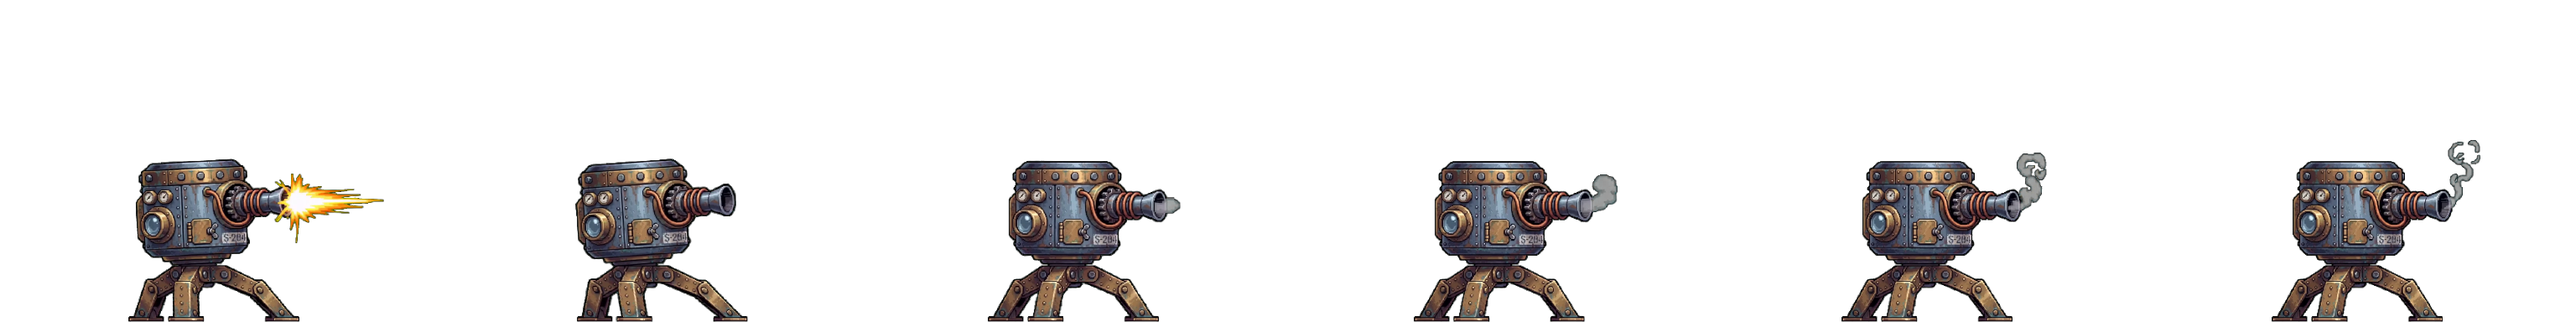
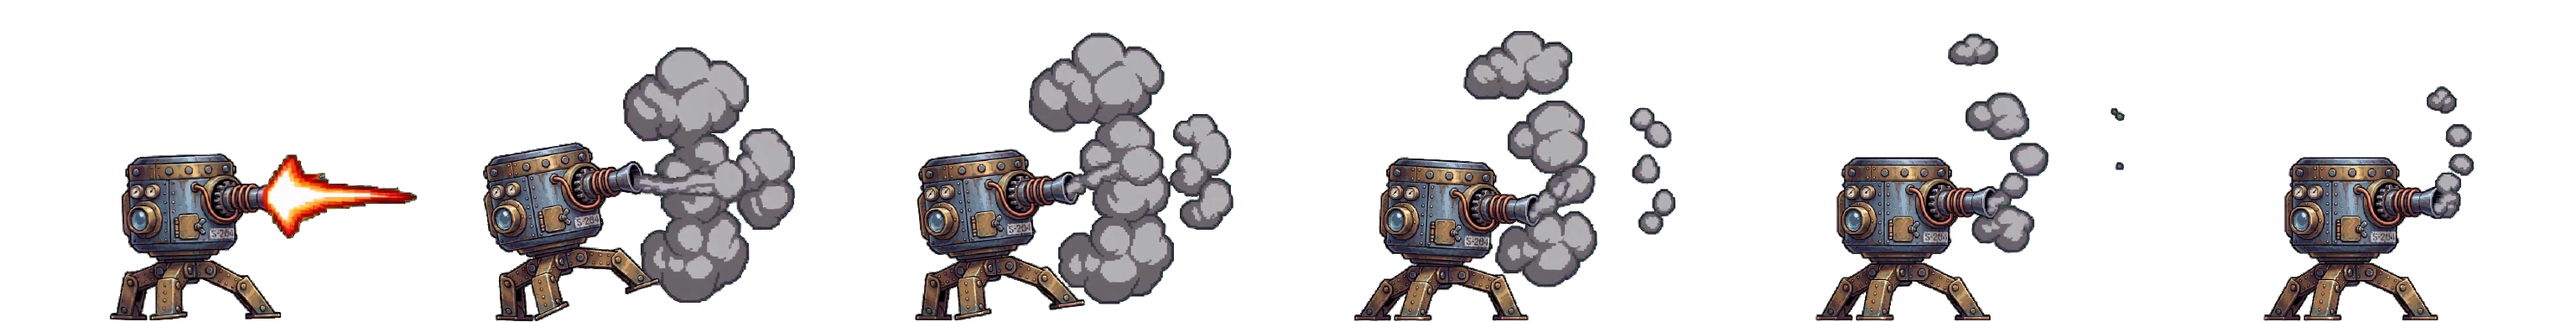
3.10: the sentry fires properly, and the waiver it needed is gone
Owner reopened the ruling. $1.19, one take, adopted. Running total $52.67 of $55.

-r5 had already refuted the padding lever, so DISCHARGE_MARGIN was the only thing
left and -r6 changed it and nothing else. The flash now reaches about TWICE the
barrel instead of no further than it, and may leave the right edge; the MACHINE is
still held off every edge. Per STYLE.md's "a named element beats a negation" the
flash was given a size rather than permission - deleting the containment would
have left it unspecified, which is how it came back small the first time.

Measured: the discharge is visible in 5 of 6 frames, up from 1. fire plays over an
18-tick window, so a one-frame flash is a flicker and a five-frame one is a shot.

And it satisfies BOTH rulings, which is the outcome worth having. -r6 passes G6
outright, so the ACCEPTED_EDGE_BLEED entry was DELETED. Asking for a bigger flash
by geometry produced one that still fits the frame, where asking for a small one
produced a machine that barely fired. No threshold moved, no waiver carried,
effect visible. edge-exceptions.test.ts now asserts the waiver's ABSENCE, so
re-adding one is a conversation rather than a commit.

The fix caused a regression and the rule caught it. Repacking at the inherited
scale drew the turret 23.4% small - tripod 157px against idle's 205 - which is the
exact defect the user reported twice. The cause IS the fix: a bigger flash
[…]

diff --git a/tests/unit/motion-framing.test.ts b/tests/unit/motion-framing.test.ts
@@ -162,12 +162,29 @@ describe('both brass-sentry/fire records bound the discharge, not just the subje
   });
 
   it.each(FIRE_KEYS)('%s measures the flash against the barrel', (key) => {
-    expect(renderedPrompt(key)).toContain('no further from the muzzle than the length of the barrel');
+    // 🔴 Re-taken 2026-08-23 (inventory 3.10). The clause was reversed on the owner's ruling: it
+    // asked for a flash reaching *no further than* the barrel and got a machine that barely fired.
+    // It now asks for one reaching about TWICE the barrel.
+    //
+    // **The property this test exists for is unchanged and is why it survives the reversal**: the
+    // flash is measured against the BARREL — the one part of the machine whose length the identity
+    // clause already commits to — rather than against the frame, which the model cannot see, or
+    // against nothing, which is how it came back small in the first place.
+    expect(renderedPrompt(key)).toContain('the length of the barrel itself');
   });
 
-  it.each(FIRE_KEYS)('%s requires margin on all four edges, not just left and right', (key) => {
-    // FRAME_MARGIN speaks only about frame WIDTH. `fire` was cut on the top and bottom too.
-    expect(renderedPrompt(key)).toContain('margin stays visible on all four edges');
+  it.each(FIRE_KEYS)('%s keeps the MACHINE off every edge, whatever the flash does', (key) => {
+    // 🔴 Re-taken 2026-08-23 (inventory 3.10). This asserted 'margin stays visible on all four
+    // edges', which bound the flash as well as the machine — and binding the flash is what made the
+    // sentry barely fire.
+    //
+    // `FRAME_MARGIN` speaks only about frame WIDTH, and `fire` was cut top and bottom too, so the
+    // requirement is real. What changed is its SUBJECT: the machine is still held off every edge;
+    // the discharge is explicitly allowed to leave the right one. `-r6` passes G6 anyway, so no
+    // waiver is carried — see `edge-exceptions.test.ts`.
+    const prompt = renderedPrompt(key);
+    expect(prompt).toContain('The MACHINE ITSELF never touches any edge');
+    expect(prompt).toContain('above, below and to the left of the turret');
   });
 
   it('keeps the elevated record identical in angle, which is its stated invariant', () => {

diff --git a/tests/unit/edge-exceptions.test.ts b/tests/unit/edge-exceptions.test.ts
@@ -93,12 +93,30 @@ describe('the exception table is pinned to what was actually examined', () => {
 
 describe('acceptedEdgeBleed — the refusals matter more than the acceptances', () => {
   it('accepts the examined failure on the examined clip', () => {
-    expect(acceptedEdgeBleed('brass-sentry/fire', 'brass-sentry-fire-r4.mp4', RIGHT_BLED)).toContain(
-      'muzzle discharge',
-    );
     expect(acceptedEdgeBleed('brass-sentry/death', 'brass-sentry-death-r4.mp4', TOP_BLED)).toContain(
       'steam plume',
     );
+  });
+
+  it('brass-sentry/fire has NO waiver any more, and that is the point (3.10)', () => {
+    // 🔴 The `fire` entry was DELETED on 2026-08-23, and this test replaces the acceptance that used
+    // to live above.
+    //
+    // It existed because the muzzle discharge crossed the right edge. The owner reopened the ruling
+    // that had produced that situation — `DISCHARGE_MARGIN` told the model to keep the flash small
+    // and inside the frame, and it obeyed by *barely firing*, which is inventory 3.10. The clause
+    // now asks for a flash reaching about twice the barrel's length instead.
+    //
+    // ⚠ **The bigger flash still fits.** `-r6` passes G6 outright, so the waiver has nothing to
+    // waive. That resolves the contradiction in the direction the ORIGINAL ruling wanted: the effect
+    // is constrained, no gate threshold moved, and no exception is carried — while the discharge is
+    // now visible in 5 of 6 frames instead of 1.
+    //
+    // A red here means someone re-added the waiver. Ask why the flash stopped fitting first.
+    expect(
+      acceptedEdgeBleed('brass-sentry/fire', 'brass-sentry-fire-r6.mp4', RIGHT_BLED),
+      'a fire waiver is back — the clip should pass G6 on its own since -r6',
+    ).toBeNull();
   });
 
   it('REFUSES a different round of the same clip', () => {

diff --git a/tests/unit/clip-jobs.test.ts b/tests/unit/clip-jobs.test.ts
@@ -212,7 +212,8 @@ describe('CLIP_JOBS — fal submission parameters checked into version control',
 
     it('brass-sentry/fire submits the PADDED canvas, matching the clip it declares', () => {
       const fire = CLIP_JOBS['brass-sentry/fire'];
-      expect(fire.file).toBe('brass-sentry-fire-r4.mp4');
+      // Re-taken 2026-08-23: `-r6` supersedes `-r4` (inventory 3.10).
+      expect(fire.file).toBe('brass-sentry-fire-r6.mp4');
       expect(fire.anchorPadded).toBe(true);
       // The decisive assertion: not merely "an anchor is set", but "not the one that was replaced".
       expect(fire.anchorUrl).not.toBe(SENTRY_UNPADDED);

diff --git a/docs/qa/session-bugfix-tiers.md b/docs/qa/session-bugfix-tiers.md
@@ -1495,3 +1495,88 @@ it is listed last despite being the status quo.
 
 Nothing in the tree changed for 3.10. The contradiction is recorded here and cross-referenced from
 `motionClauses.mjs`, so the next reader finds a decision rather than a puzzle.
+
+---
+
+## 3.10 — RESOLVED. The discharge is back, and the waiver is gone
+
+**Status: FIXED.** Owner reopened the ruling; `-r6` shot for $1.19. Running total **$52.67 of $55**.
+
+### What changed, and it was one variable
+
+`-r5` had already refuted the padding lever (a 4024² anchor at `--fill 0.35`, single-variable against
+`-r4`'s 3130², **did not move the discharge**). So `DISCHARGE_MARGIN` was the only thing left, and
+`-r6` changed it and nothing else.
+
+| | old clause | new clause |
+|---|---|---|
+| flash size | *"no further from the muzzle than the length of the barrel"* | *"about TWICE the length of the barrel itself"* |
+| edges | *"neither the flash nor the smoke ever reaches any edge"* | *"the flash and smoke may run off the right edge"* |
+| the machine | (covered by the same sentence) | *"the MACHINE ITSELF never touches any edge"* |
+
+Per STYLE.md §6 — **a named element beats a negation** — the flash was given a *size* rather than
+permission. Deleting the containment would have left it unspecified, which is how it came back small
+the first time. It is still measured against the **barrel**, the one part whose length the identity
+clause commits to.
+
+### Measured
+
+| | turret alone | widest frame | discharge visible in |
+|---|---|---|---|
+| `-r4` | 206 px | 305 px | **1 of 6 frames** |
+| `-r6` | 193 px | 294 px | **5 of 6 frames** |
+
+`fire` plays over an 18-tick window, so a one-frame flash is a flicker and a five-frame one is a shot.
+
+### ✅ And it satisfies BOTH rulings, which is the outcome worth having
+
+`-r6` **passes G6 outright**. The `ACCEPTED_EDGE_BLEED` entry for `brass-sentry/fire` has been
+**deleted** — nothing bleeds any more.
+
+That is the contradiction resolved in the direction the *original* ruling wanted. Asking for a bigger
+flash *by geometry* produced one that still fits the frame, where asking for a small one produced a
+machine that barely fired. No gate threshold moved, no waiver is carried, and the effect is visible.
+`edge-exceptions.test.ts` now asserts the **absence** of that waiver, so re-adding one is a
+conversation rather than a commit.
+
+### 🔴 The regression it caused, and the rule that caught it
+
+Repacking at the inherited scale made the turret draw **23.4 % too small** — tripod base 157 px
+against idle's 205. That is the exact defect the user reported twice: *"the stationary character, when
+they play the K/O animation, it becomes smaller."*
+
+**The cause is the fix.** A bigger muzzle flash inflates the silhouette without making the machine
+bigger, so any scale derived from the silhouette shrinks the turret by however much the flash added.
+`character-bounds-brass-sentry.json` already carried the rule — *"Re-derive from the tripod, never
+from the silhouette, if either clip is ever re-shot"* — and this is its best demonstration yet.
+
+Re-derived from the tripod: `0.44081578 × 205/157 = 0.57558748`. **Verified after repacking: idle 205,
+fire 205, death 205.** `sprite-size-consistency.test.ts` is what caught it, and it named the cause in
+its own failure message before anyone looked.
+
+`fire` and `death` no longer share one scale. That is **correct, not a regression**: they shared it
+because they were shot from the same padded anchor in the same round, and `fire` is now a different
+round with a different discharge.
+
+### Four readings re-taken
+
+`clip-jobs` (`-r4` → `-r6`), `edge-exceptions` (acceptance → asserted absence), and the two
+`motion-framing` wording gates. The second of those changed its **subject** rather than its strength:
+it asserted *"margin stays visible on all four edges"*, which bound the flash as well as the machine —
+and binding the flash is what made the sentry barely fire. It now holds the machine off every edge and
+lets the discharge leave the right one.
+
+### ⚠ Found on the way, and NOT fixed: `brass-sentry/idle` fails its own loop gate
+
+`⚠ idle 8 frames … FAIL — loop: wrap 0.01371 exceeds 0.01143 — it snaps.`
+
+**Pre-existing** — reproduced with every change from this session stashed. It is not mine and it is
+not new.
+
+The reason nobody has seen it is worth more than the defect: **`npm run assets:build` with no slug
+does not build the sentry at all.** It builds `brass-courier` only, so the sentry's gates run only
+when someone types the slug by hand. A failing gate that the default command never runs is a gate
+nobody reads.
+
+Recorded, not fixed: `idle` is the sheet the whole slug's `scale` is derived from, so re-shooting it
+moves every sentry number in the file — a piece of work, not a line change. **Owed.**

diff --git a/docs/GENERATION-LOG.md b/docs/GENERATION-LOG.md
@@ -269,3 +269,7 @@ footstep and a landing are live on that tick, and a worst case should over-state
 | [qa/session-bugfix-tiers.md § 2.2](qa/session-bugfix-tiers.md) | **`brass-courier/fall` re-shoot — PAID AND REJECTED.** `01a02e75-f146-77e0-bbb6-78723778be42`. Applied both levers that made `jump-r4` pass (padded square anchor + the `SAME SIZE` clause) and passed **every** gate — G6, motion floor, adjacent distinctness — while measuring **worse** on the defect: worst adjacent height step 30 px against the shipped clip's 22. `fall-r2.mp4` still ships. The clip is kept, superseded, never deleted | `bytedance/seedance-2.0/image-to-video` | 1 · $1.19 |
 
 **Running total: $51.48 of the $55 ceiling. $3.52 remains.**
+
+| [qa/session-bugfix-tiers.md § 3.10](qa/session-bugfix-tiers.md) | **`brass-sentry/fire` re-shoot — ADOPTED.** `01a02eb2-9ec0-7b93-982f-f060bbcbffb1`. `DISCHARGE_MARGIN` reversed on the owner's ruling: the flash now reaches about **twice** the barrel instead of no further than it. Discharge visible in **5 of 6 frames**, up from 1 — and it **passes G6 outright**, so the `ACCEPTED_EDGE_BLEED` waiver was deleted. Forced a tripod re-derive (0.44081578 → 0.57558748); the turret had gone 23.4 % small | `bytedance/seedance-2.0/image-to-video` | 1 · $1.19 |
+
+**Running total: $52.67 of the $55 ceiling. $2.33 remains.**
